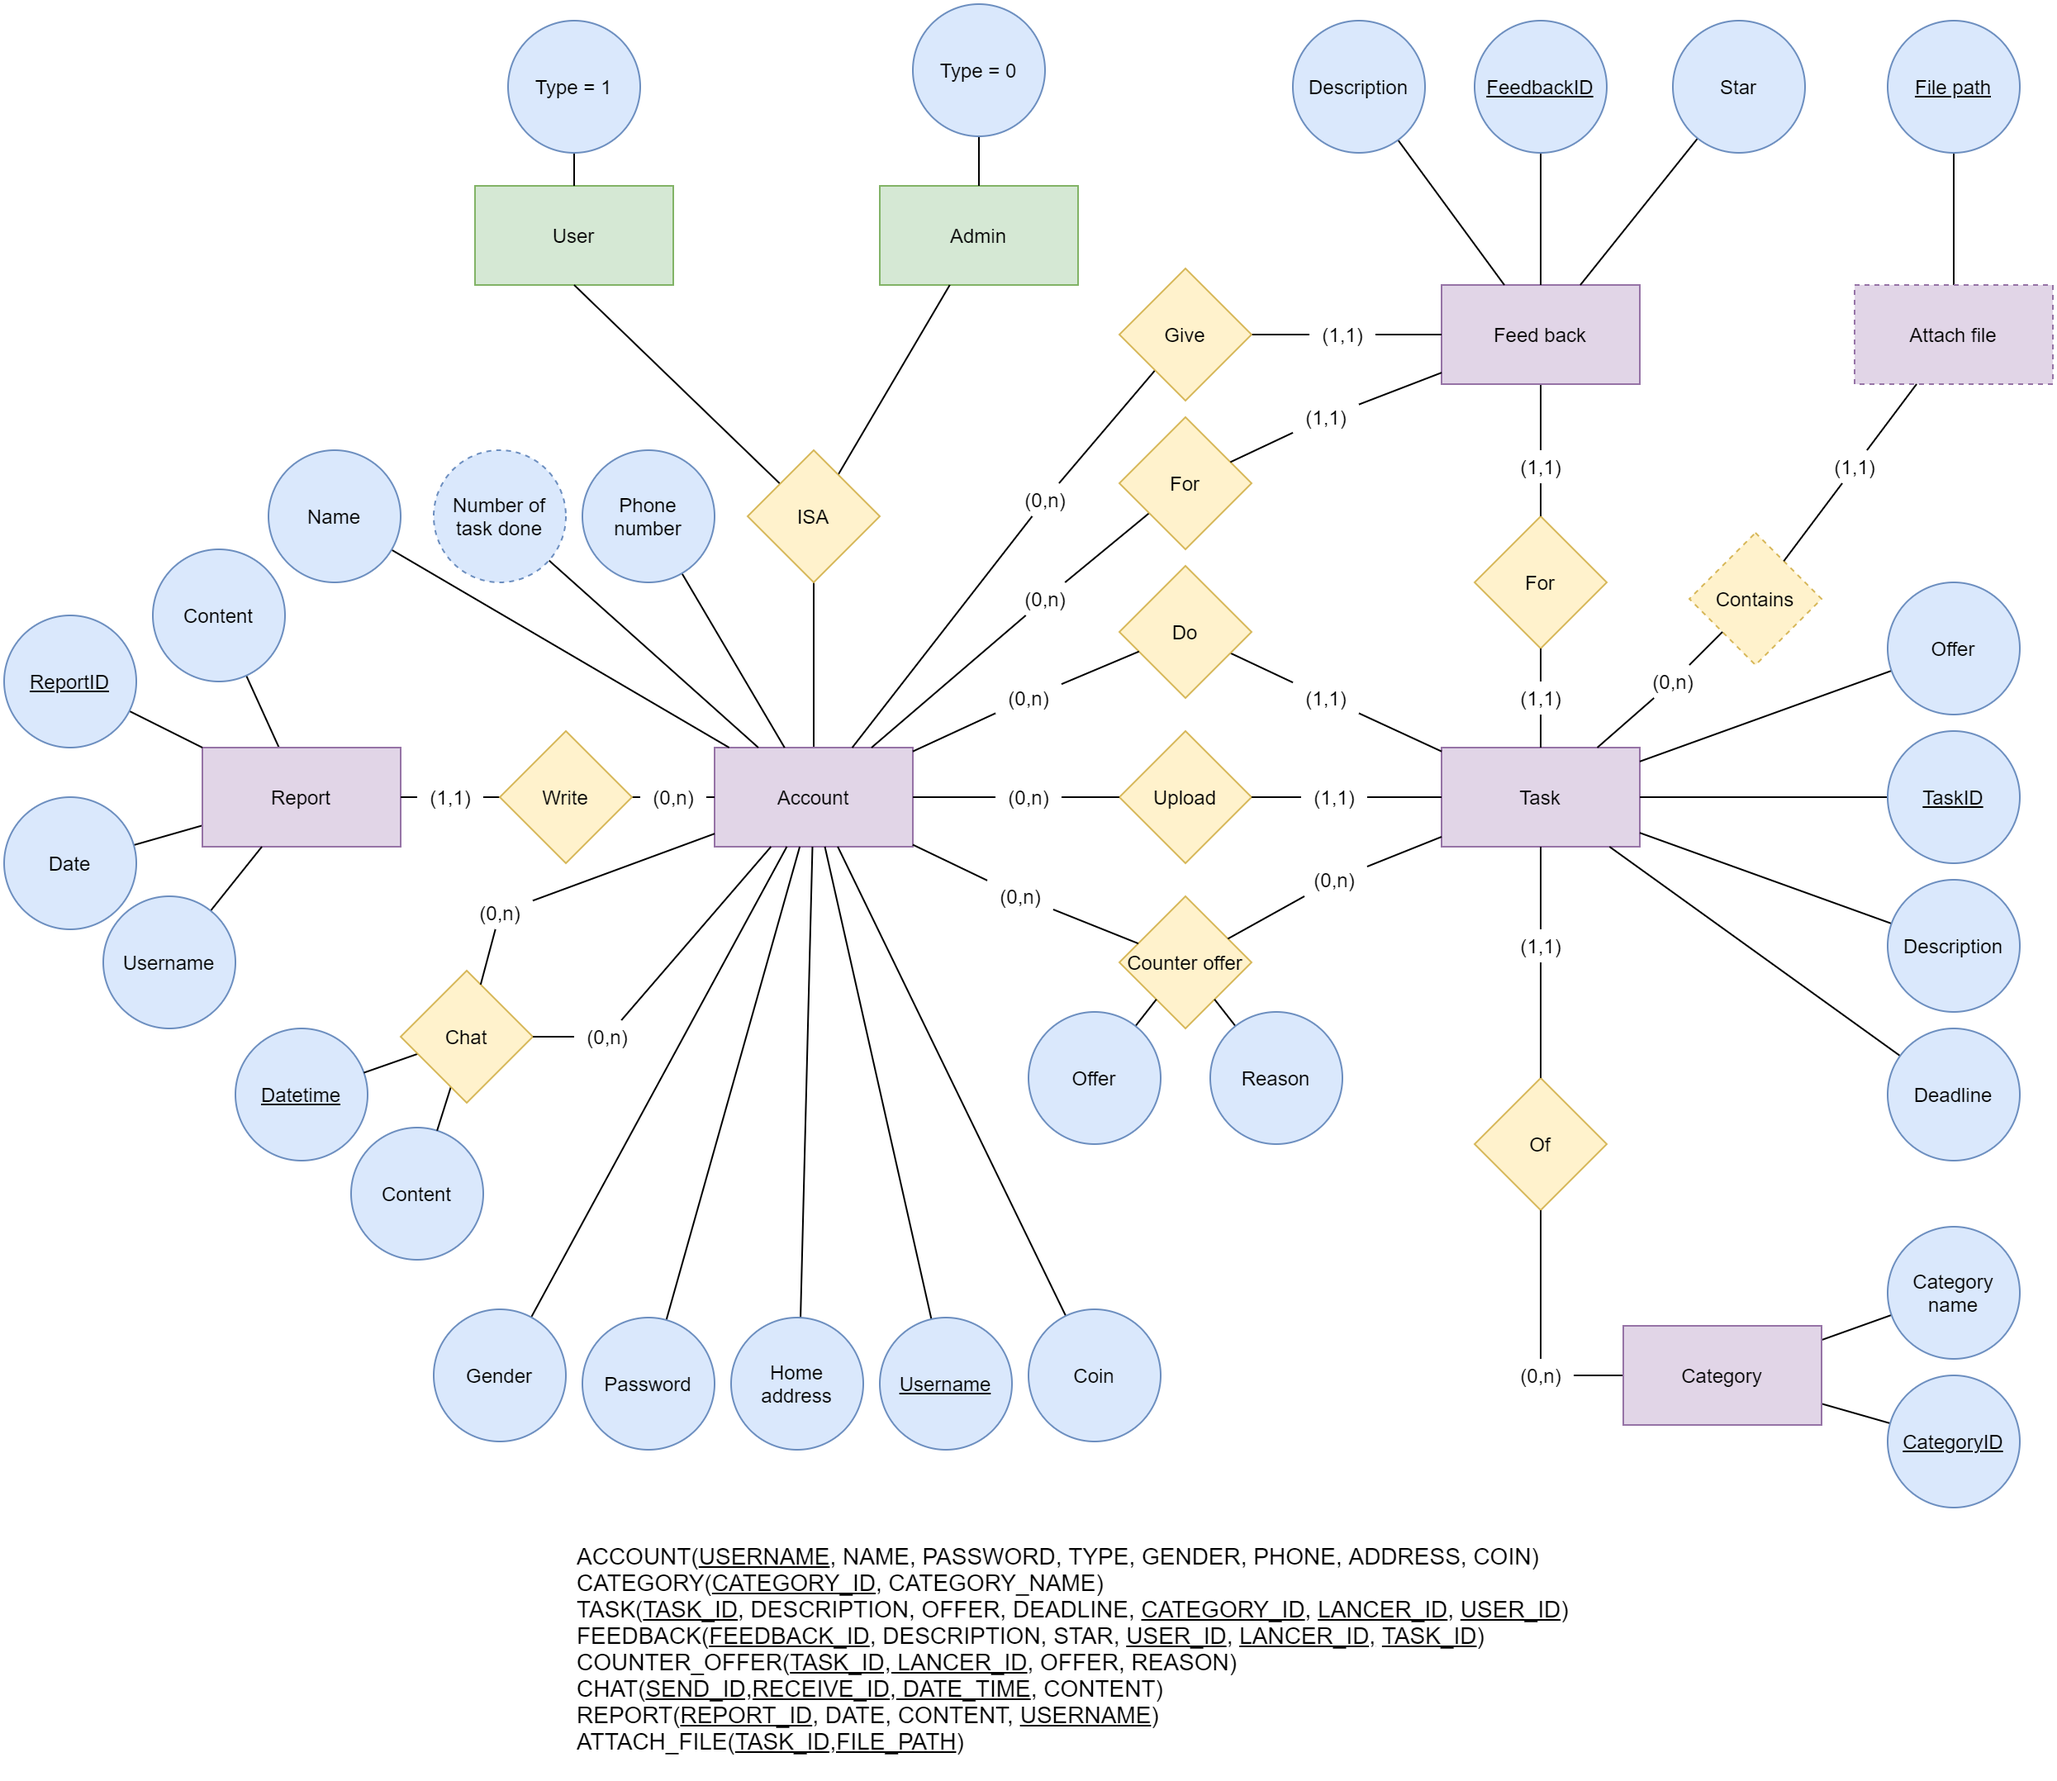
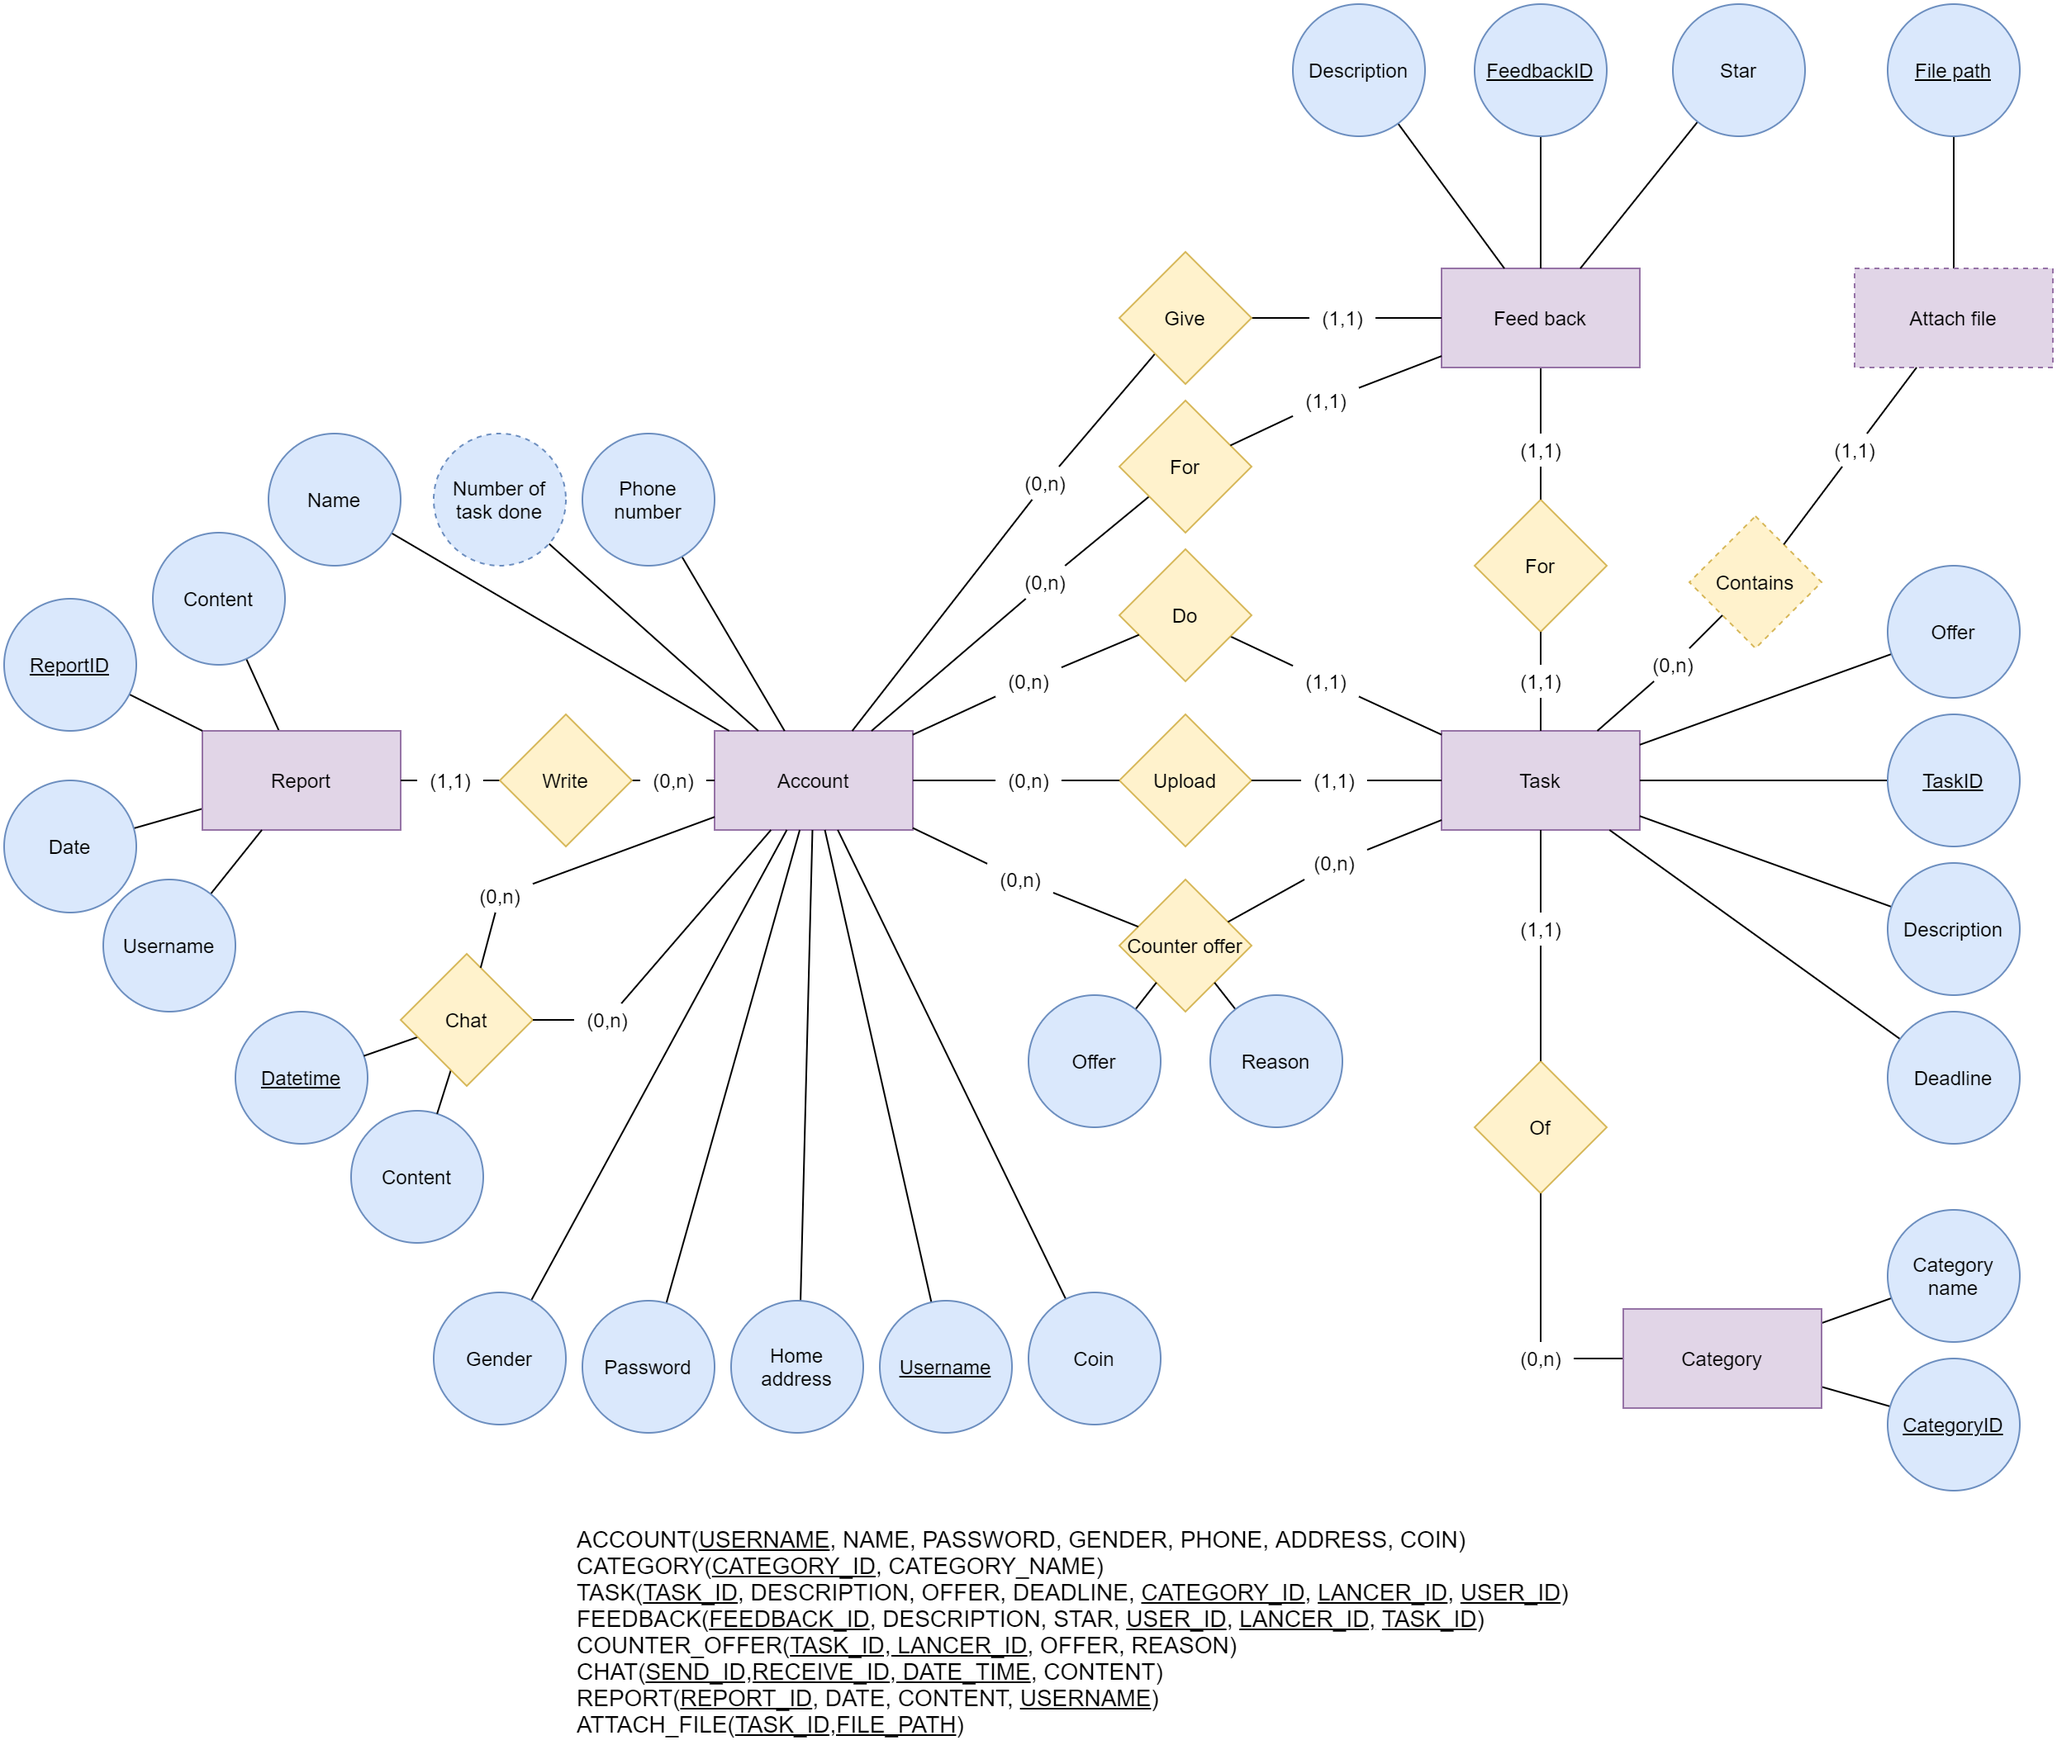
Remove type of account in ERD + change exitcode of JWT forbidden and wrong old password in password change API

diff --git a/src/Server/controller/account.js b/src/Server/controller/account.js
@@ -117,7 +117,7 @@ function changePassword(req,res) {
             oldPassword = result[0].password
             if (oldPassword!=data.oldPassword) {
                 res.send({
-                    exitcode: 2,
+                    exitcode: 104,
                     message: "Old password not correct"
                 })
                 return;

diff --git a/src/Server/server.js b/src/Server/server.js
@@ -22,7 +22,7 @@ app.use(function(req,res,next){
             if (err) {
                 res.status(403);
                 res.send({
-                    exitcode: 1,
+                    exitcode: 2,
                     message: err
                 })
                 return
